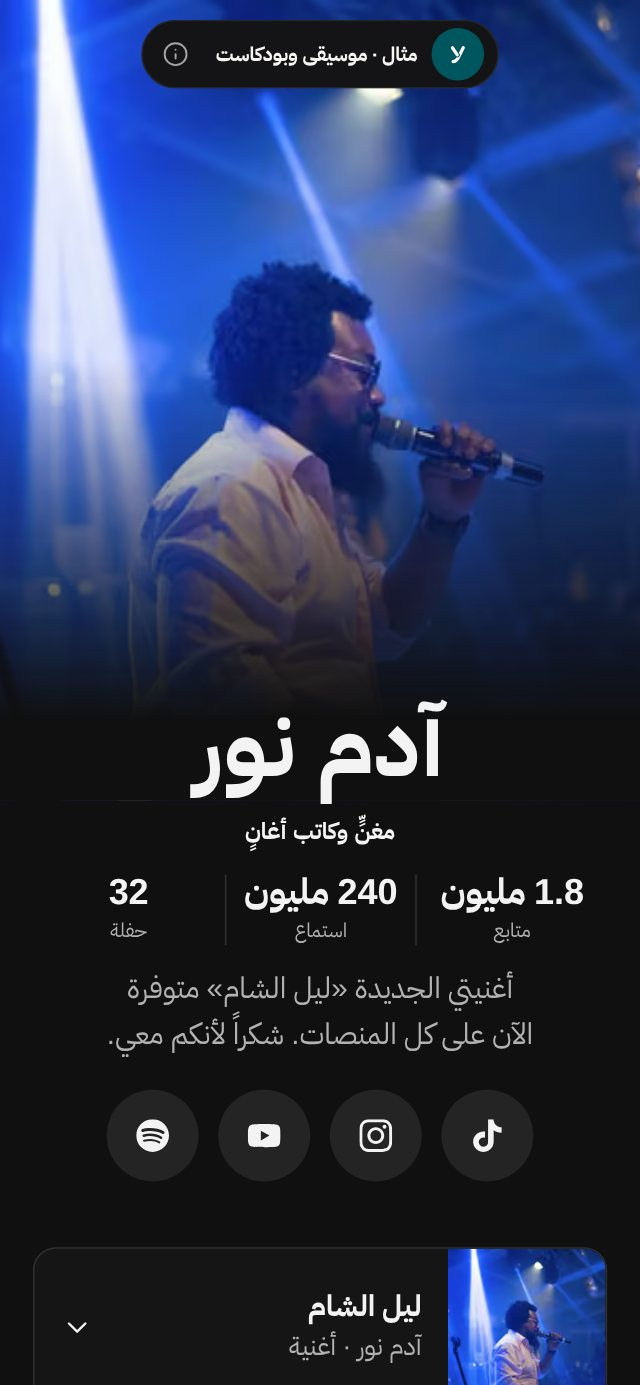
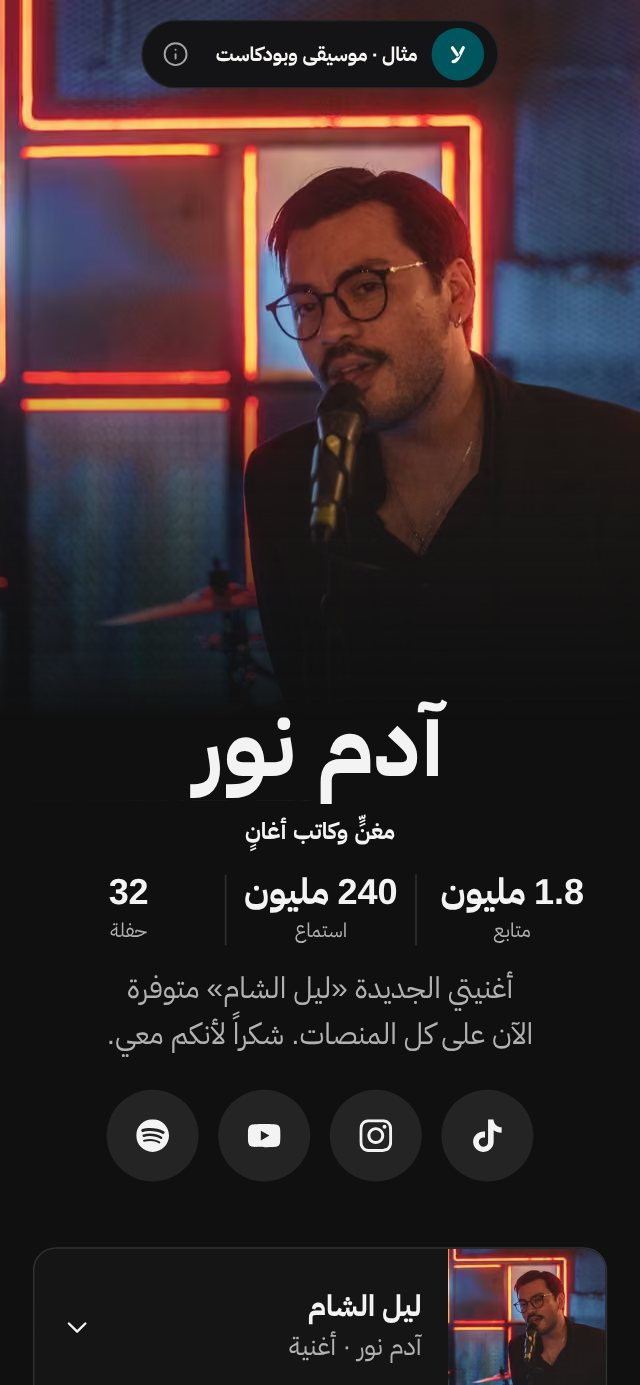
fix(web): measure gallery contrast at rest, retake two home shots, final photo numbers
The axe check ran while the filtered cards were still fading in and read a
half-faded chip (3.24:1). It now waits for finite animations to end; ten
repeated runs pass. Adam Nour's and Sofia Laurent's home shots show their
new photos. ADR 0058 gets the final numbers and the rejection reasons.

Claude-Session: https://claude.ai/code/session_01LCF9gwiCbq2xN4kMBWjZZw

diff --git a/apps/web/e2e/templates.spec.ts b/apps/web/e2e/templates.spec.ts
@@ -20,6 +20,10 @@ test.describe("template gallery", () => {
     await expect(cards.first()).toBeVisible();
     expect(await cards.count()).toBeLessThan(20);
     await expect(page.getByRole("button", { name: /^Preview Bäckerei Sonnenkorn – / }).last()).toBeVisible();
+    // Contrast is measured at rest: a card caught halfway through its entrance fade is not what people read.
+    await page.waitForFunction(() =>
+      document.getAnimations().every((a) => a.playState !== "running" || a.effect?.getTiming().iterations === Infinity),
+    );
     const results = await new AxeBuilder({ page }).withTags(WCAG).analyze();
     expect(results.violations.map((v) => `${v.id}: ${v.nodes[0]?.target.join(" ")}`)).toEqual([]);
   });

diff --git a/docs/DECISIONS/0058-templates-page-expert-pass.md b/docs/DECISIONS/0058-templates-page-expert-pass.md
@@ -13,10 +13,14 @@ level on phone and desktop. They also asked for the best possible photos on the 
 - **Photo judging.** An independent judge compared each proposal with the old card, checked the
   crops, and found the photo page and photographer. It also checked that the uploader is plausibly
   the rights holder, using the CDN's embedded metadata.
-  - Judges rejected more than half of the proposals:
+  - 16 cards got a new photo (15 replaced in place, plus Sami, who no longer shares Nina's travel
+    picture). Judges rejected more than half of the proposals:
     - visible brand logos (Columbia, Nike, a gym-equipment brand);
-    - a retoucher re-uploading a client shoot;
-    - a removed account;
+    - a retoucher re-uploading a client shoot, and two photos uploaded by the subject or the
+      client rather than the photographer;
+    - a removed account, and a photo removed from Unsplash although its file still loads;
+    - a real professional from a documentary photo series, which would have shown her as a
+      fictional political candidate;
     - faces hidden by a VR headset or by hair;
     - stock poses;
     - pictures that turned flat under a duotone.
@@ -100,7 +104,8 @@ level on phone and desktop. They also asked for the best possible photos on the 
   them helps every route, needs a per-route provider, and gets its own change.
 - **Preview script.** The preview dialog's script could load on first touch, and card pictures could
   resolve on the server.
-- **Photos.** Some cards found no clearly better free photo (Lena Vogt, Halawiyat al-Sham, Zwei Kaffee
-  and others); they keep their photos.
+- **Photos.** Some cards found no clearly better free photo (Lena Vogt, Halawiyat al-Sham, Zwei Kaffee,
+  Julia Brandt, Maya Lin and others); they keep their photos. For Maya Lin, a still-published frame
+  from the same shoot (Joel Mott, `kvxohKMEWbE`) is a candidate that has not been judged yet.
 
 **Status.** Applied.
